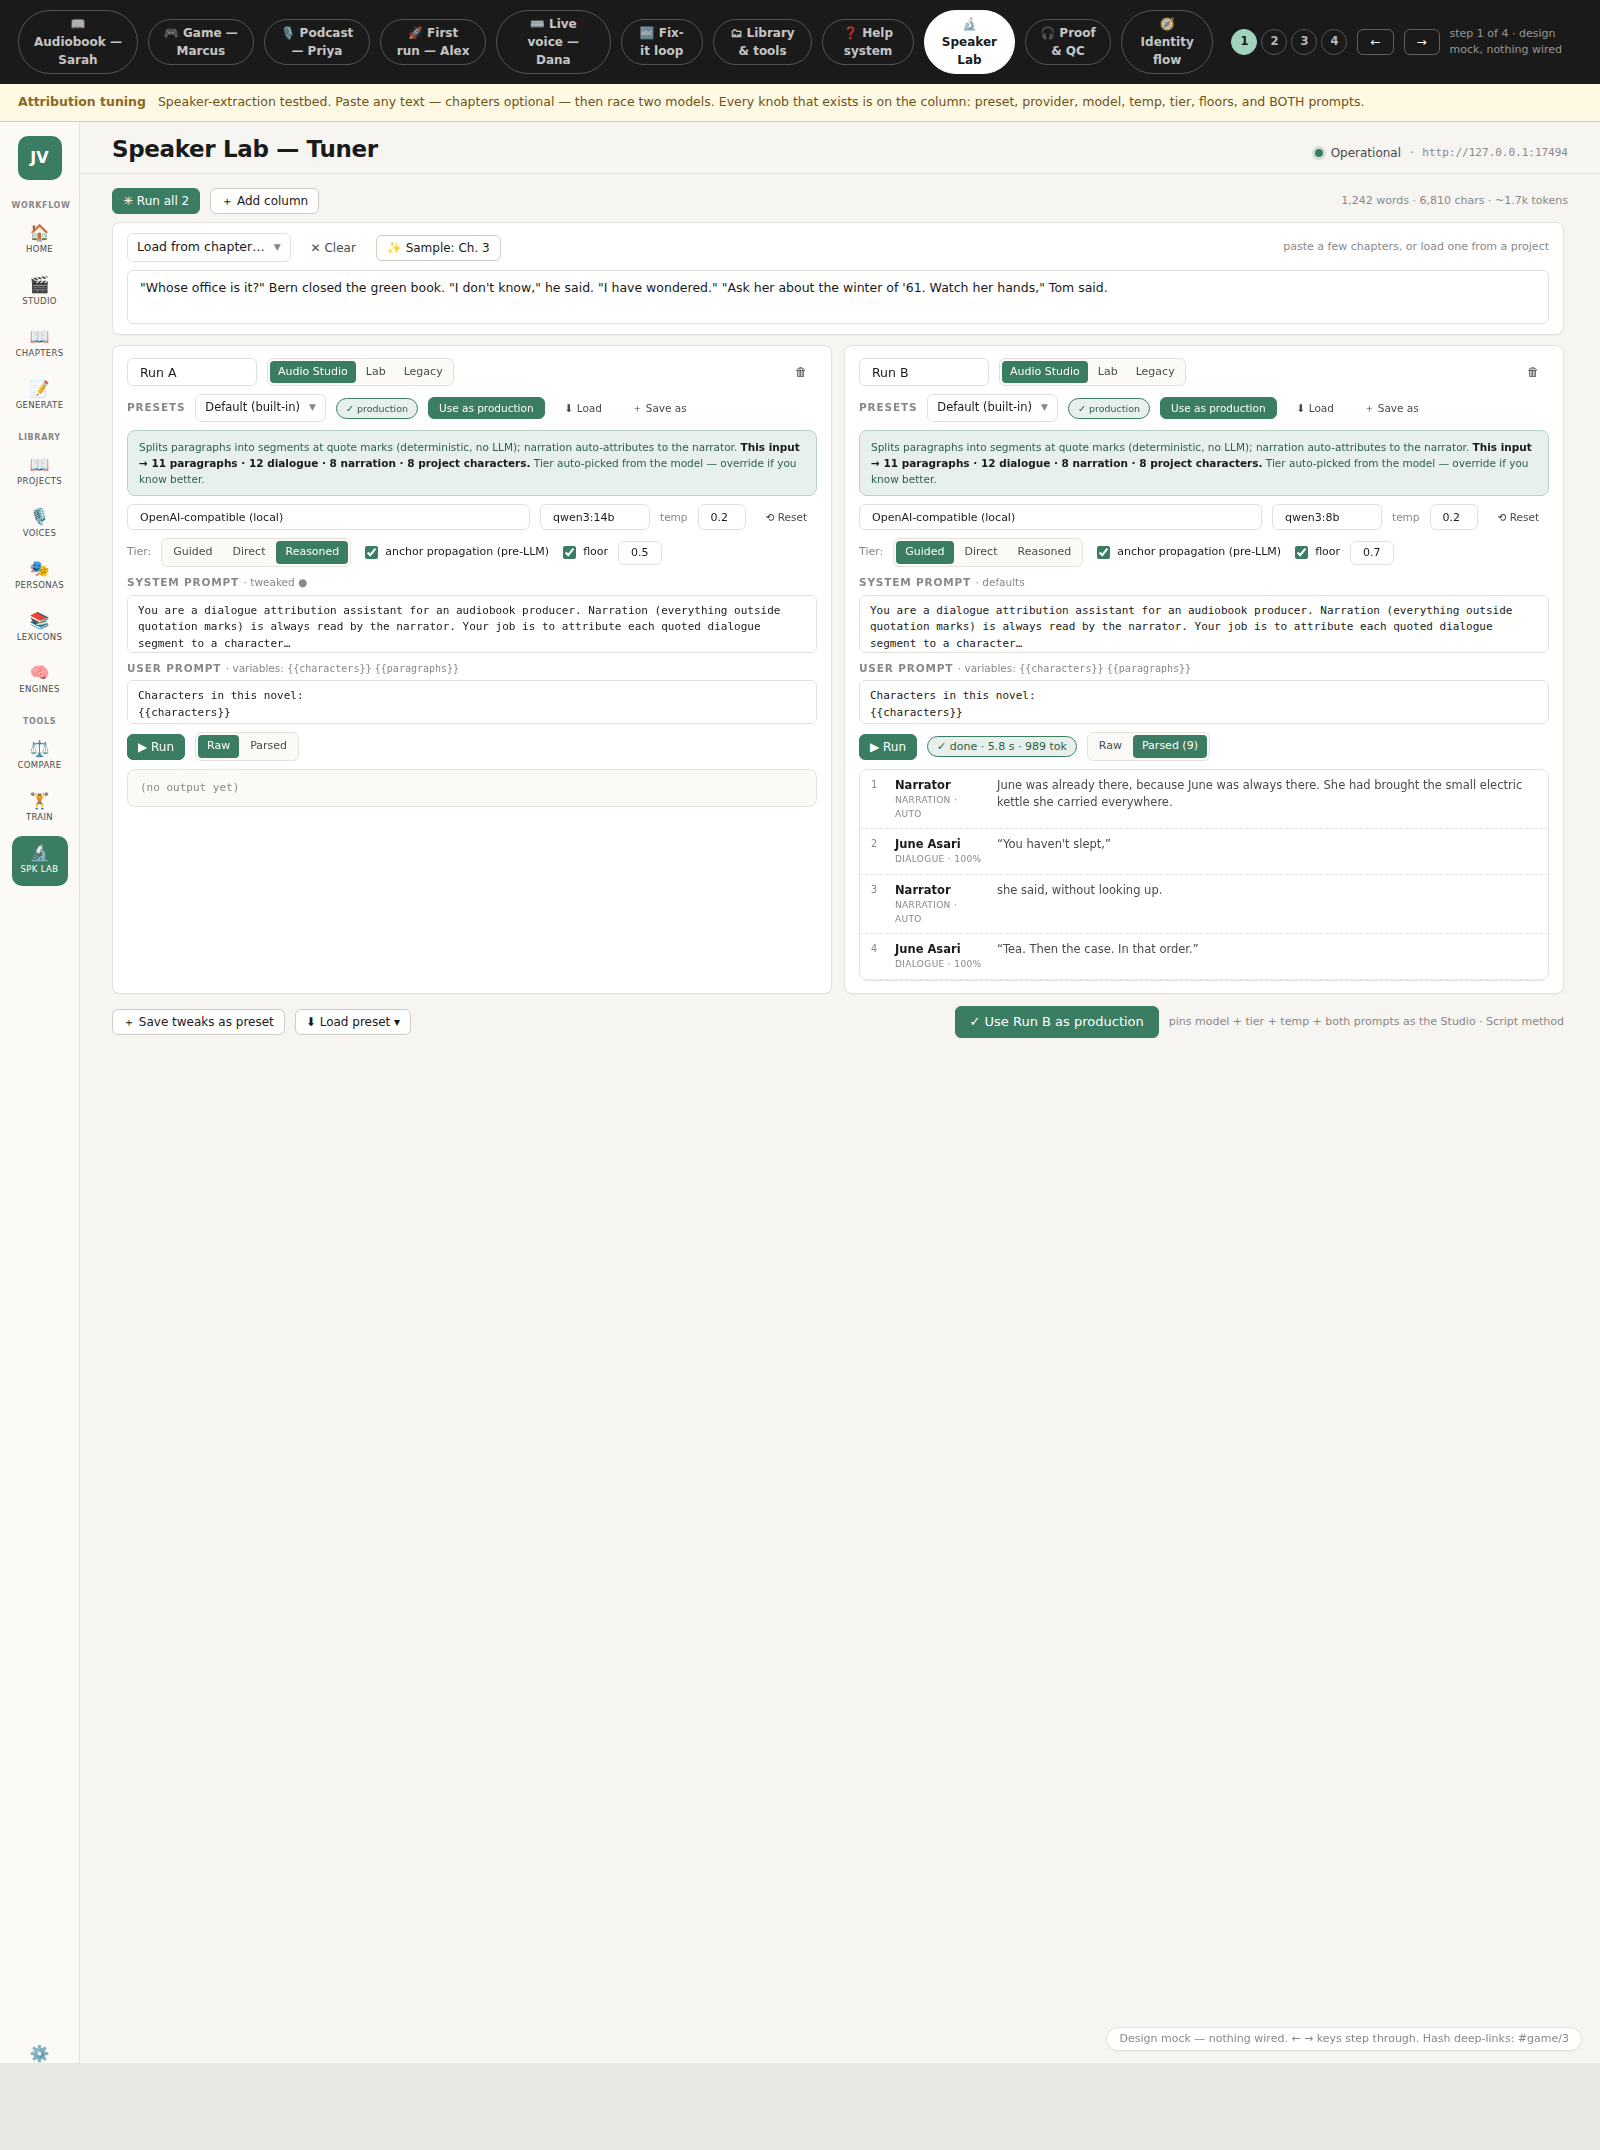
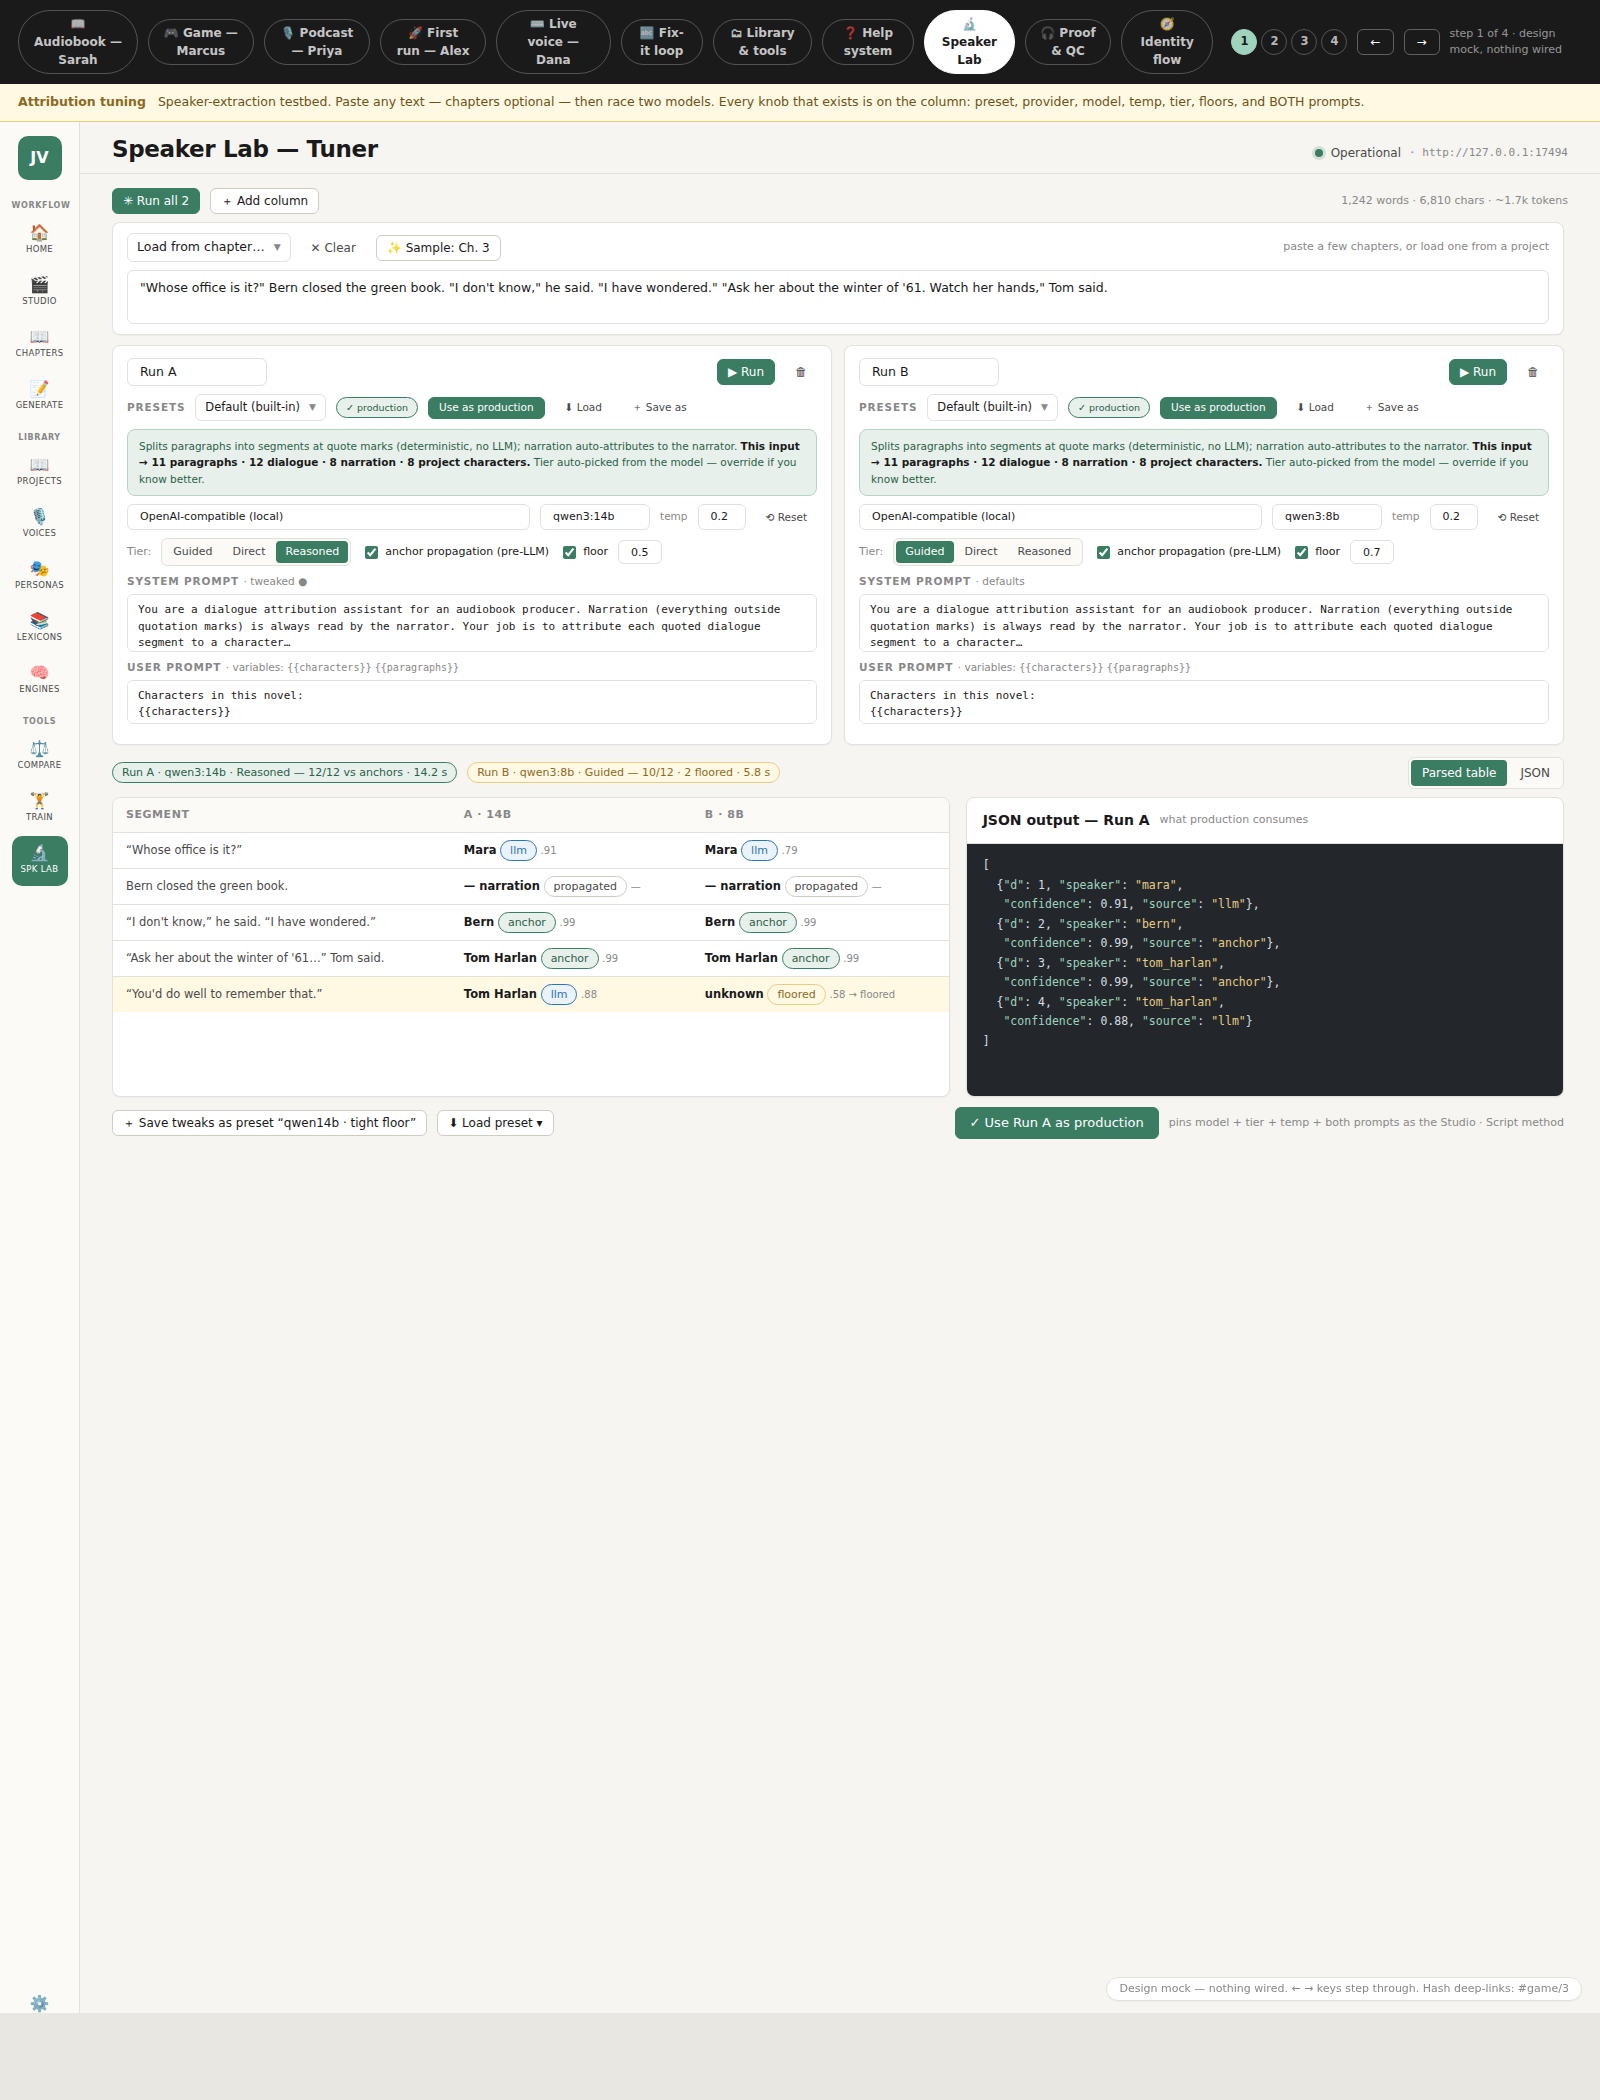
fix(design): Speaker Lab v4 — own design restored on single page: config columns (copied mode tabs removed, per-column Run), shared comparison table + JSON panel, promote row
https://claude.ai/code/session_01RnHLzYNeJn2GgAMKW1BPmR

diff --git a/preview/journeys-preview.html b/preview/journeys-preview.html
@@ -1300,7 +1300,7 @@ const stepsSplab = [
     <div style="display:grid;grid-template-columns:1fr 1fr;gap:12px;margin-bottom:12px">
       ${[["Run A","qwen3:14b","Reasoned","0.5","tweaked ●",1],["Run B","qwen3:8b","Guided","0.7","defaults",0]]
         .map(c=>`<div class="card" style="padding:12px 14px">
-        <div class="row" style="flex-wrap:nowrap;margin-bottom:8px"><input class="input" style="height:28px;font-size:12.5px;max-width:130px" value="${c[0]}"/><span class="chips"><button class="chip active" style="padding:3px 8px;font-size:11px">Audio Studio</button><button class="chip" style="padding:3px 8px;font-size:11px">Lab</button><button class="chip" style="padding:3px 8px;font-size:11px">Legacy</button></span><span class="spacer"></span><button class="btn ghost sm">🗑</button></div>
+        <div class="row" style="flex-wrap:nowrap;margin-bottom:8px"><input class="input" style="height:28px;font-size:12.5px;max-width:140px" value="${c[0]}"/><span class="spacer"></span><button class="btn sm">▶ Run</button><button class="btn ghost sm">🗑</button></div>
         <div class="row" style="flex-wrap:nowrap;margin-bottom:8px"><span class="eyebrow" style="flex:none">Presets</span><span class="combo-cell" style="font-size:11.5px">Default (built-in)<span class="chev">▼</span></span><span class="pill green" style="font-size:9.5px">✓ production</span><button class="btn sm" style="height:22px;font-size:10.5px">Use as production</button><button class="btn ghost sm" style="font-size:10.5px">⬇ Load</button><button class="btn ghost sm" style="font-size:10.5px">＋ Save as</button></div>
         <div style="background:var(--accent-soft);border:1px solid var(--accent-line);border-radius:8px;padding:8px 11px;font-size:10.5px;line-height:1.55;color:var(--accent-ink);margin-bottom:8px">Splits paragraphs into segments at quote marks (deterministic, no LLM); narration auto-attributes to the narrator. <strong>This input → 11 paragraphs · 12 dialogue · 8 narration · 8 project characters.</strong> Tier auto-picked from the model — override if you know better.</div>
         <div class="row" style="flex-wrap:nowrap;margin-bottom:8px"><input class="input" style="height:26px;font-size:11px" value="OpenAI-compatible (local)"/><input class="input" style="height:26px;font-size:11px;max-width:110px" value="${c[1]}"/><span class="muted" style="font-size:10.5px;flex:none">temp</span><input class="input" style="height:26px;font-size:11px;max-width:48px" value="0.2"/><button class="btn ghost sm" style="font-size:10.5px">⟲ Reset</button></div>
@@ -1314,20 +1314,38 @@ const stepsSplab = [
 {{characters}}
 
 Paragraphs (dialogue segments tagged inline): {{paragraphs}}</textarea>
-        <div class="row" style="margin-bottom:8px"><button class="btn sm">▶ Run</button>${c[5]?'':'<span class="pill green">✓ done · 5.8 s · 989 tok</span>'}
-          <span class="chips"><button class="chip ${c[5]?'active':''}" style="padding:3px 9px;font-size:11px">Raw</button><button class="chip ${c[5]?'':'active'}" style="padding:3px 9px;font-size:11px">Parsed${c[5]?'':' (9)'}</button></span></div>
-        ${c[5]?`<div style="background:var(--surface-2);border:1px solid var(--line);border-radius:8px;padding:10px 12px;font-family:var(--font-mono);font-size:11px;color:var(--ink-3)">(no output yet)</div>`
-          :`<div style="border:1px solid var(--line);border-radius:8px;overflow:hidden">${[
-            ["1","Narrator","narration · auto","June was already there, because June was always there. She had brought the small electric kettle she carried everywhere."],
-            ["2","June Asari","dialogue · 100%","“You haven't slept,”"],
-            ["3","Narrator","narration · auto","she said, without looking up."],
-            ["4","June Asari","dialogue · 100%","“Tea. Then the case. In that order.”"]]
-            .map(r=>`<div class="row" style="flex-wrap:nowrap;padding:7px 11px;border-bottom:1px dashed var(--line);font-size:11.5px;align-items:flex-start"><span class="muted mono" style="font-size:10px;width:14px;flex:none">${r[0]}</span><span style="width:92px;flex:none"><strong style="font-size:11.5px">${r[1]}</strong><span class="muted" style="display:block;font-size:9px;text-transform:uppercase;letter-spacing:.04em">${r[2]}</span></span><span style="flex:1;color:var(--ink-2);font-size:11.5px">${r[3]}</span></div>`).join("")}</div>`}
       </div>`).join("")}
     </div>
+    <div class="row" style="margin-bottom:8px">
+      <span class="pill green">Run A · qwen3:14b · Reasoned — 12/12 vs anchors · 14.2 s</span>
+      <span class="pill warn">Run B · qwen3:8b · Guided — 10/12 · 2 floored · 5.8 s</span>
+      <span class="spacer"></span><span class="chips"><button class="chip active">Parsed table</button><button class="chip">JSON</button></span></div>
+    <div class="two-col" style="flex:none;height:300px;margin-bottom:10px">
+      <div class="card" style="overflow:auto"><table class="vtable">
+        <thead><tr><th>Segment</th><th>A · 14b</th><th>B · 8b</th></tr></thead><tbody>
+          ${[["“Whose office is it?”",["Mara","llm",".91"],["Mara","llm",".79"],0],
+             ["Bern closed the green book.",["— narration","prop","—"],["— narration","prop","—"],0],
+             ["“I don't know,” he said. “I have wondered.”",["Bern","anchor",".99"],["Bern","anchor",".99"],0],
+             ["“Ask her about the winter of '61…” Tom said.",["Tom Harlan","anchor",".99"],["Tom Harlan","anchor",".99"],0],
+             ["“You'd do well to remember that.”",["Tom Harlan","llm",".88"],["unknown","floor",".58 → floored"],1]]
+            .map(r=>`<tr ${r[3]?'style="background:var(--warn-bg)"':''}><td style="font-size:11.5px;color:var(--ink-2)">${r[0]}</td>${[r[1],r[2]].map(x=>`<td style="white-space:nowrap;font-size:11.5px"><strong>${x[0]}</strong> ${srcChip(x[1])} <span class="muted" style="font-size:10px">${x[2]}</span></td>`).join("")}</tr>`).join("")}
+        </tbody></table></div>
+      <div class="card" style="display:flex;flex-direction:column;overflow:hidden"><div class="card-h"><strong>JSON output — Run A</strong><span class="muted" style="font-size:11px">what production consumes</span></div>
+        <div class="codeblock" style="border-radius:0;flex:1;overflow:auto">[
+  {<span class="k">"d"</span>: 1, <span class="k">"speaker"</span>: <span class="s">"mara"</span>,
+   <span class="k">"confidence"</span>: 0.91, <span class="k">"source"</span>: <span class="s">"llm"</span>},
+  {<span class="k">"d"</span>: 2, <span class="k">"speaker"</span>: <span class="s">"bern"</span>,
+   <span class="k">"confidence"</span>: 0.99, <span class="k">"source"</span>: <span class="s">"anchor"</span>},
+  {<span class="k">"d"</span>: 3, <span class="k">"speaker"</span>: <span class="s">"tom_harlan"</span>,
+   <span class="k">"confidence"</span>: 0.99, <span class="k">"source"</span>: <span class="s">"anchor"</span>},
+  {<span class="k">"d"</span>: 4, <span class="k">"speaker"</span>: <span class="s">"tom_harlan"</span>,
+   <span class="k">"confidence"</span>: 0.88, <span class="k">"source"</span>: <span class="s">"llm"</span>}
+]</div>
+      </div>
+    </div>
     <div class="row" style="padding-bottom:6px">
-      <button class="btn secondary sm">＋ Save tweaks as preset</button><button class="btn secondary sm">⬇ Load preset ▾</button>
-      <span class="spacer"></span><button class="btn">✓ Use Run B as production</button>
+      <button class="btn secondary sm">＋ Save tweaks as preset “qwen14b · tight floor”</button><button class="btn secondary sm">⬇ Load preset ▾</button>
+      <span class="spacer"></span><button class="btn">✓ Use Run A as production</button>
       <span class="muted" style="font-size:11px">pins model + tier + temp + both prompts as the Studio · Script method</span></div>
     </div>`) },
 
